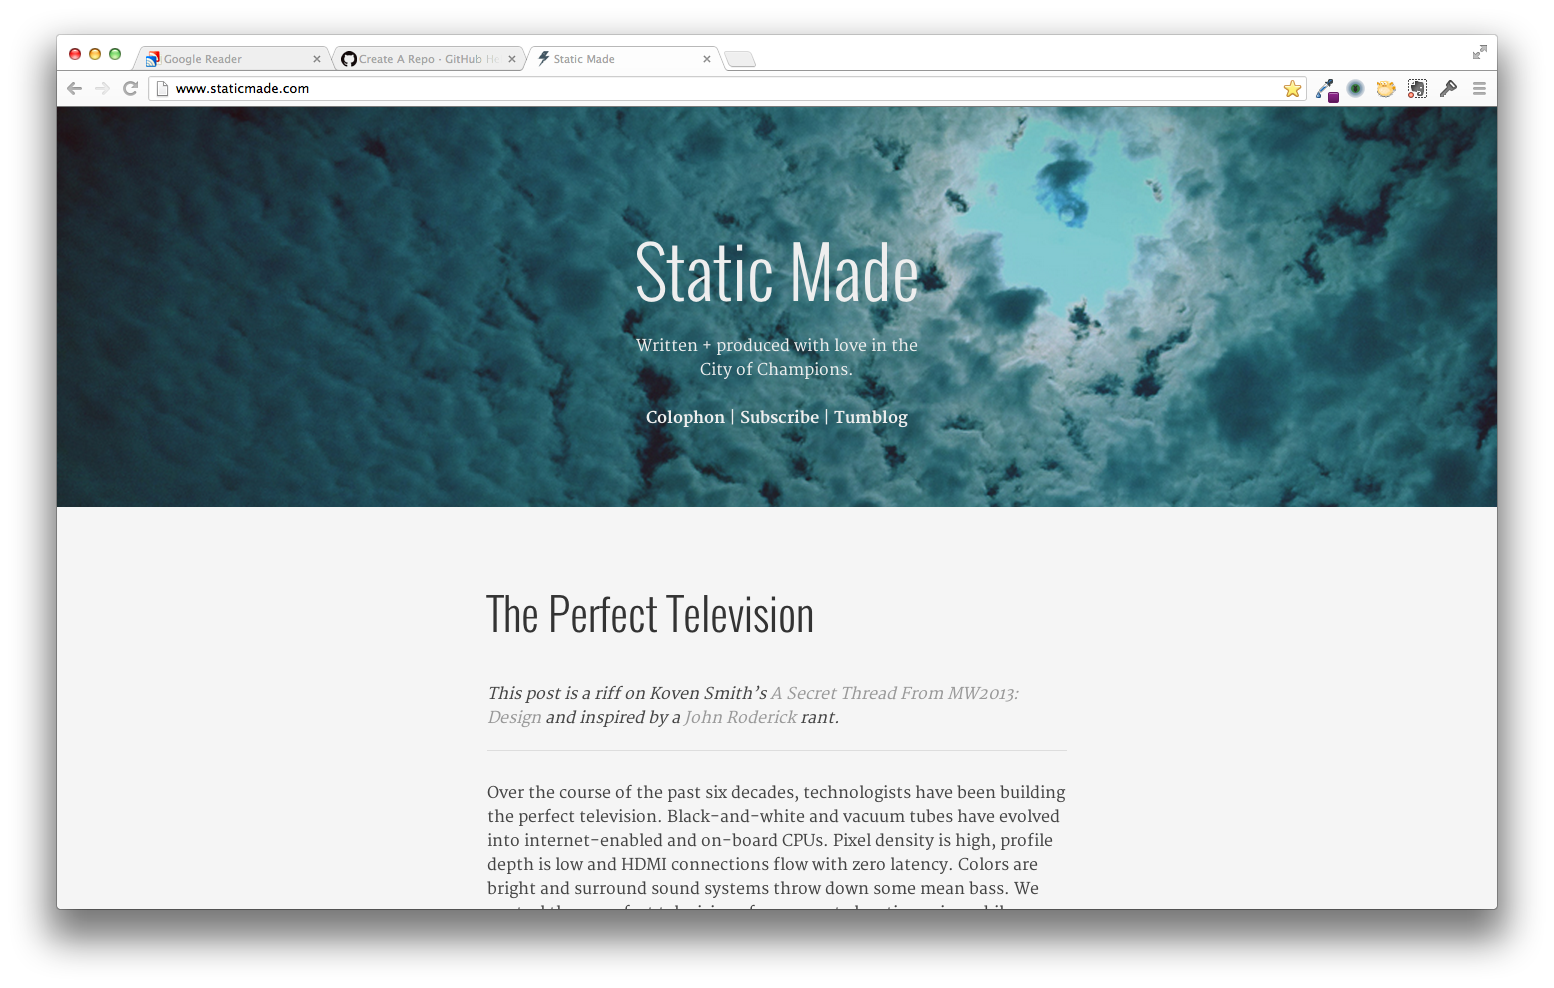
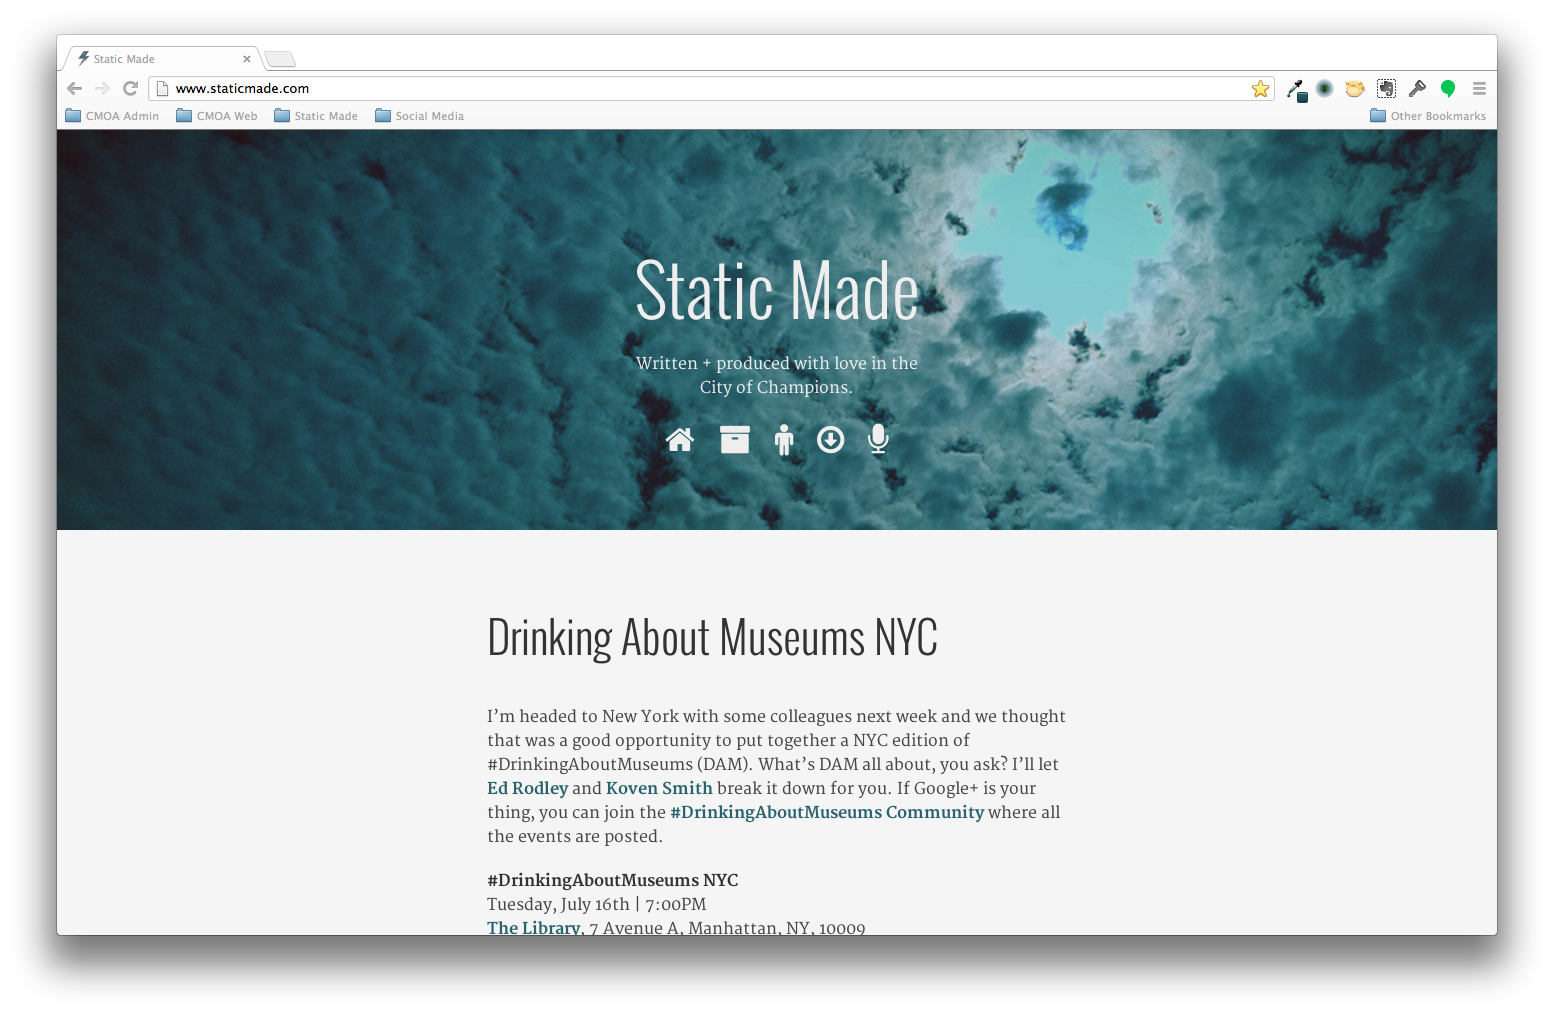
Styling Tweaks
Icons in header and font updates.

diff --git a/style.css b/style.css
@@ -267,8 +267,8 @@
 	}
 	blockquote {
 		font-family: "Oswald", sans-serif;
-		font-size: 16px !important;
-		line-height: 24px !important;
+		font-size: 22px !important;
+		line-height: 30px !important;
 		color: #999;
 		margin: 50px 0;
 		padding: 0 50px;

diff --git a/header.php b/header.php
@@ -24,7 +24,8 @@
 				<h1><a href="<?php echo get_settings('home'); ?>"><?php bloginfo('name'); ?></a></h1>
 				<p>Written + produced with love in the City of Champions.</p>
 				<p>&nbsp;</p>
-				<p><a href="/archive">Archive</a> | <a href="/about/">Colophon</a> | <a href="/subscribe/">Feeds</a> | <a href="http://museopunks.org/">Podcast</a></p>
+				<p><a href="/"><i class="icon-home icon-2x"></i></a>&nbsp;&nbsp;&nbsp;&nbsp;&nbsp;&nbsp;<a href="/archive"><i class="icon-archive icon-2x"></i></a>&nbsp;&nbsp;&nbsp;&nbsp;&nbsp;&nbsp;<a href="/about/"><i class="icon-male icon-2x"></i></a>&nbsp;&nbsp;&nbsp;&nbsp;&nbsp;&nbsp;<a href="/subscribe/"><i class="icon-download icon-2x"></i></a>&nbsp;&nbsp;&nbsp;&nbsp;&nbsp;&nbsp;<a href="http://museopunks.org/"><i class="icon-microphone icon-2x"></i></a></p>
+
 			</div>
 		</div>
 	</header>
